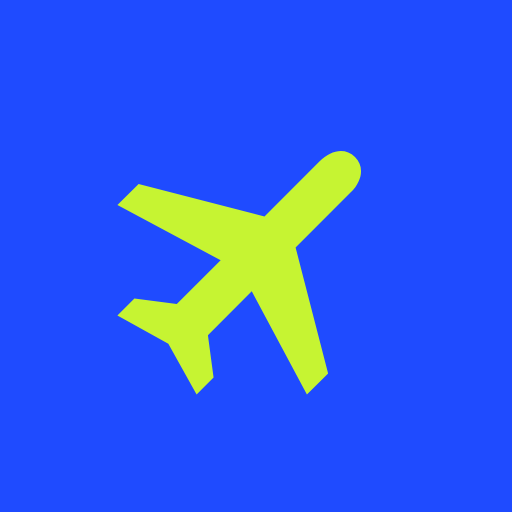
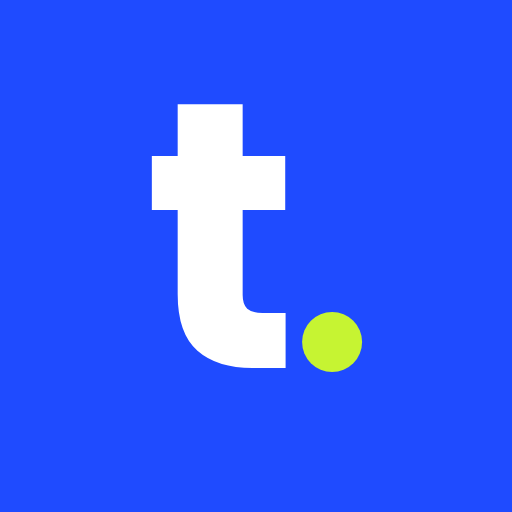
Add files via upload

Changed region(s): [[0.2188, 0.1875, 0.7188, 0.7812]]

diff --git a/sw.js b/sw.js
@@ -1,6 +1,6 @@
 // 여행 앱 서비스 워커: 앱 화면(index.html)만 저장해 두고, 서버 데이터는 항상 실시간으로 받아요.
-const CACHE = 'yeohang-v1';
-const SHELL = ['./', './index.html', './manifest.webmanifest', './icon-192.png', './icon-512.png'];
+const CACHE = 'ttona-v2';
+const SHELL = ['./', './index.html', './manifest.webmanifest', './icon-192.png', './icon-512.png', './icon.svg'];
 self.addEventListener('install', (e) => { e.waitUntil(caches.open(CACHE).then((c) => c.addAll(SHELL)).then(() => self.skipWaiting())); });
 self.addEventListener('activate', (e) => { e.waitUntil(caches.keys().then((ks) => Promise.all(ks.filter((k) => k !== CACHE).map((k) => caches.delete(k)))).then(() => self.clients.claim())); });
 self.addEventListener('fetch', (e) => {
